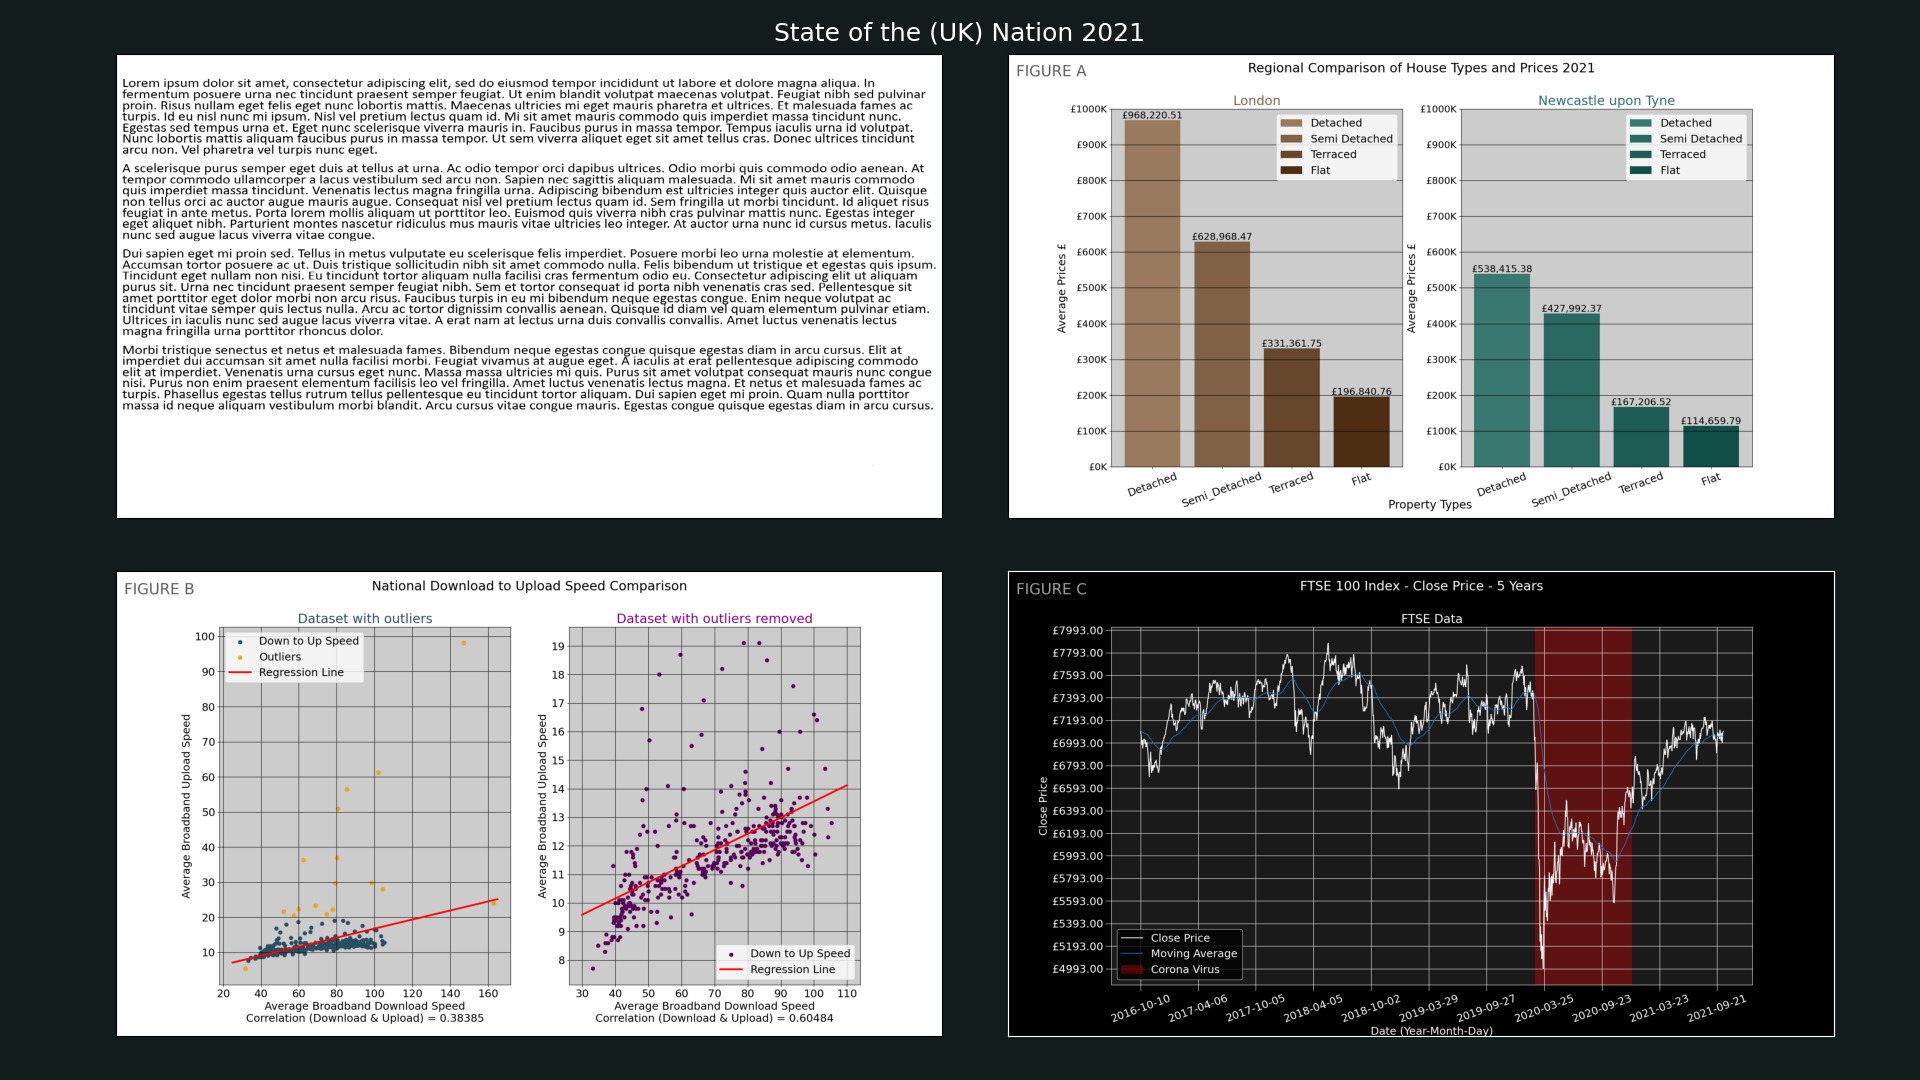
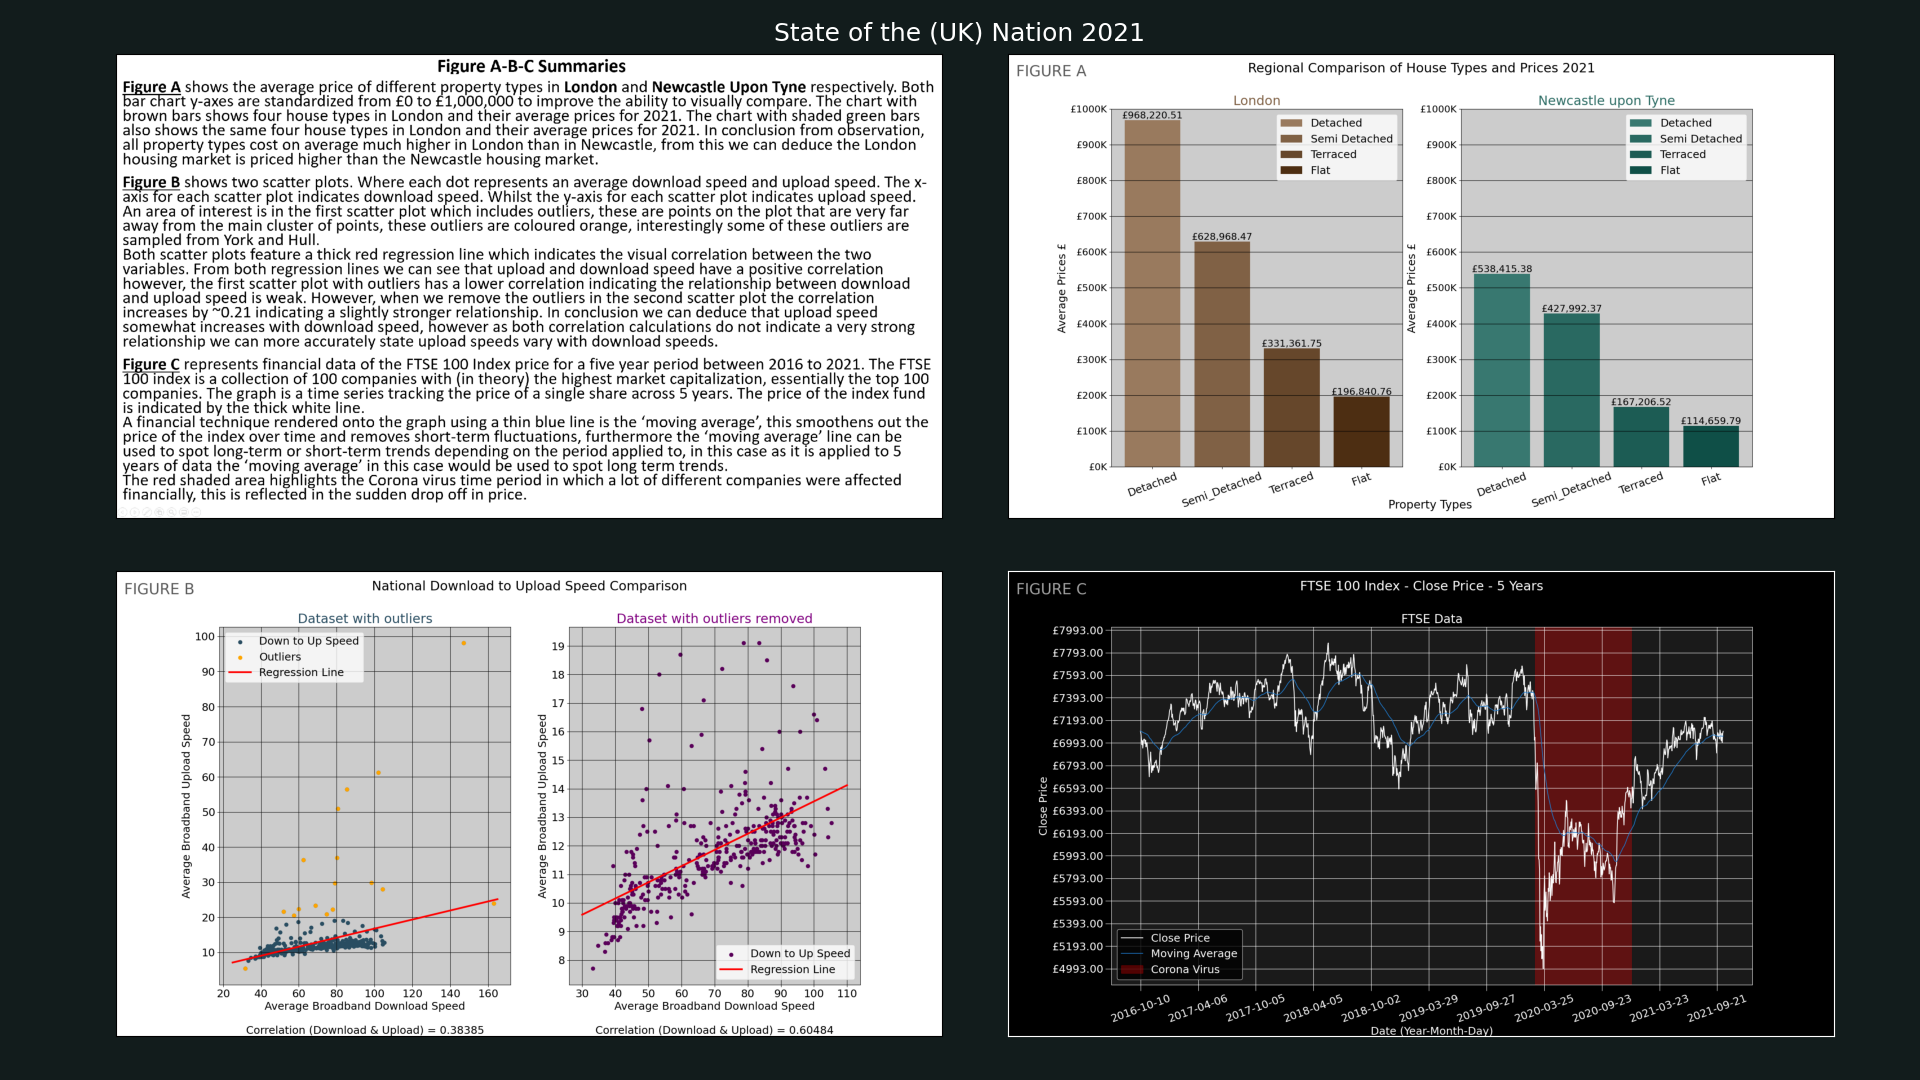
Created summary

Changed region(s): [[0.0625, 0.0611, 0.5, 0.4583], [0.3125, 0.9167, 0.4375, 0.9778], [0.125, 0.9167, 0.25, 0.9778]]

diff --git a/part_b.py b/part_b.py
@@ -96,9 +96,9 @@ def part_b(fig, ax1, ax2, show=True, save=False):
     print(ccc)
 
     ax1.set_xlabel(f"Average Broadband Download Speed"
-                   f"\nCorrelation (Download & Upload) = {round(cc[0][1], 5)}")
+                   f"\n\nCorrelation (Download & Upload) = {round(cc[0][1], 5)}")
     ax2.set_xlabel(f"Average Broadband Download Speed"
-                   f"\nCorrelation (Download & Upload) = {round(ccc[0][1], 5)}")
+                   f"\n\nCorrelation (Download & Upload) = {round(ccc[0][1], 5)}")
 
     if save: plt.savefig('Images/part_b.png')
     if show: plt.show()
